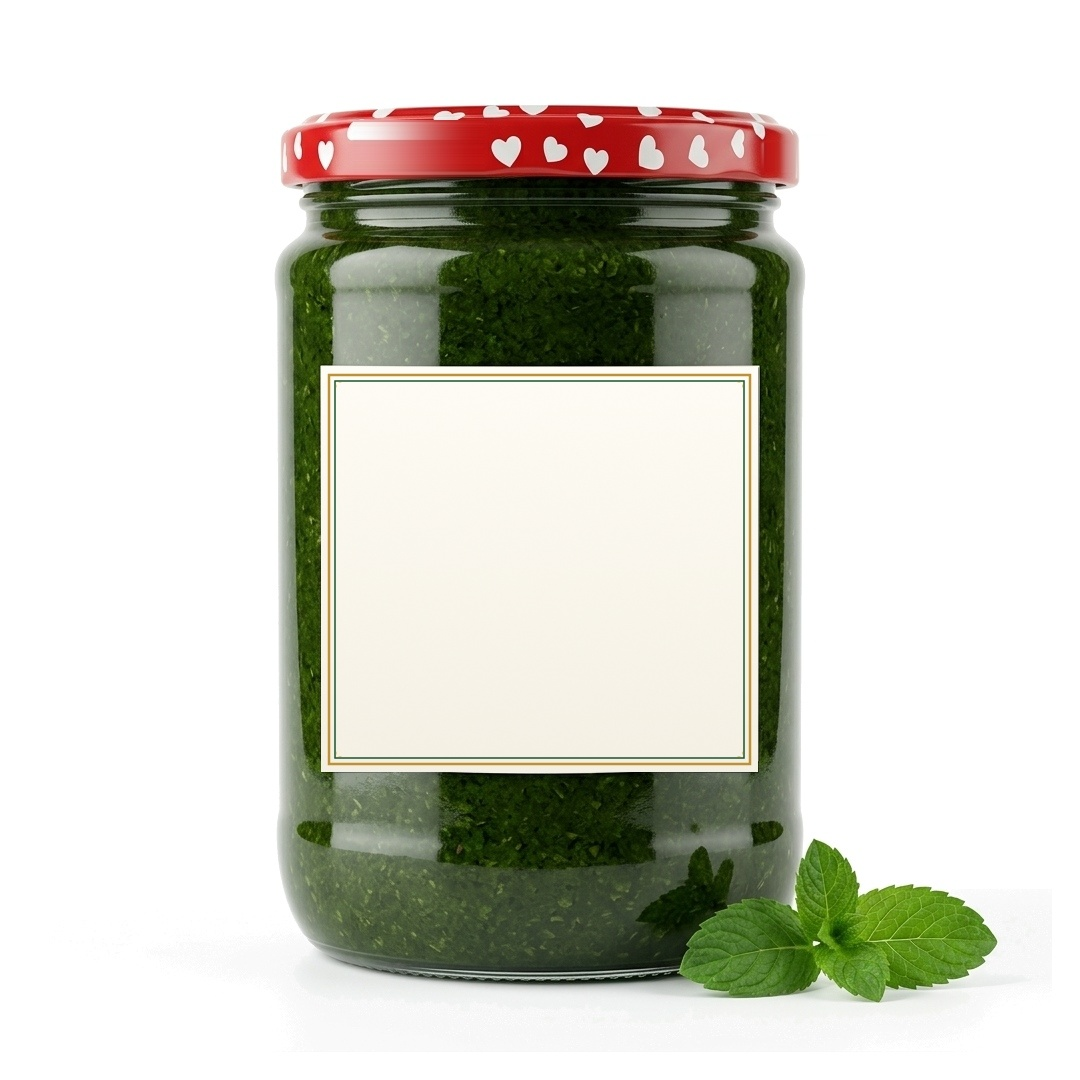
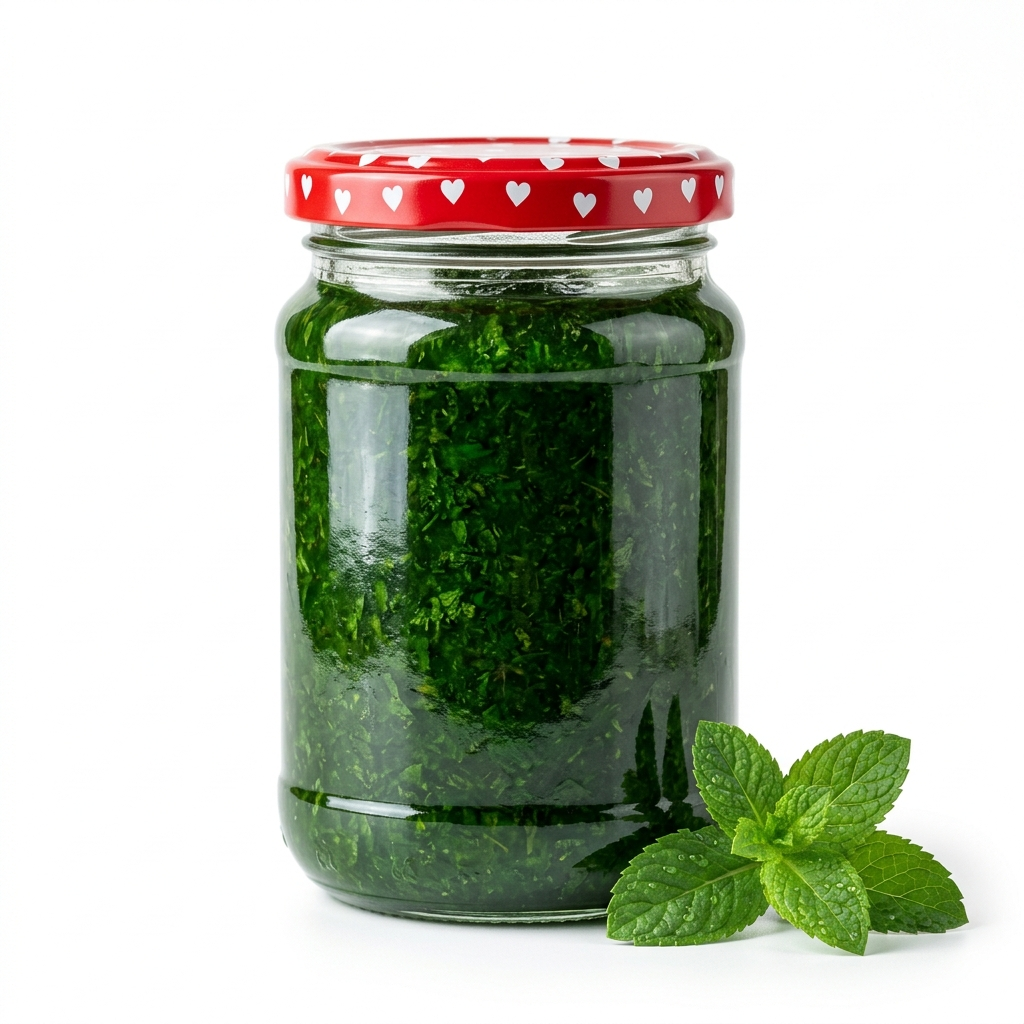
fix(catalog): replace blank box with seamless label-free studio mint jam for PRD-100 & PRD-325 and correct orthography to ئۇيغۇر تېبابىتى across all js/html

diff --git a/js/i18n.js b/js/i18n.js
@@ -74,9 +74,9 @@ const I18N_TRANSLATIONS = {
     heroDesc2: 'ساپ تەبىئىي يىپەك ۋە ھۆسن تۈزەش گۈزەللىك يۈرۈشلۈكلىرى زاكاز قىلىشىڭىزنى كۈتمەكتە.',
     heroBtn2: 'مەھسۇلاتلار تىزىملىكى',
 
-    heroTag3: 'ئۇيغۇر تىبابىتى',
+    heroTag3: 'ئۇيغۇر تېبابىتى',
     heroTitle3: 'خوتەن قاشتېشى ۋە شىپالىق ئۆسۈملۈكلەر خەزىنىسى',
-    heroDesc3: 'ساپ تاش قاشتېشى بىلەزۈكلىرى، تەبىئىي شىپالىق تاغ ھەسىلى ۋە ئەنئەنىۋى تىبابەت مەلھەملىرى تولۇق كاپالەتلىك.',
+    heroDesc3: 'ساپ تاش قاشتېشى بىلەزۈكلىرى، تەبىئىي شىپالىق تاغ ھەسىلى ۋە ئەنئەنىۋى تېبابەت مەلھەملىرى تولۇق كاپالەتلىك.',
     heroBtn3: 'شىپالىق ماللارنى كۆرۈش',
 
     heroTag4: 'ئالىي تەم ۋە ئىچىملىكلەر',
@@ -243,9 +243,9 @@ const I18N_TRANSLATIONS = {
     instaGiftHint: 'دەلىللەش ئۇچۇرى: پوسۇلكىڭىز چىقىرىلغاندا ھەدىيە ئاپتوماتىك قوشۇلىدۇ.',
     instaGiftItemName: '🎁 ئىنىستىگېرام ئەگەشكۈچى سوۋغىتى',
     instaGiftMarquee: '🎁 ئىنىستىگېرام سەھىپىمىزگە ئەگىشىپ زاكاز بەرسىڭىز ھەقسىز سوۋغات بېرىلىدۇ!',
-    btnUyghurMedicine: 'ئۇيغۇر تىبابىتى',
-    fLinkMerchants: 'ئۇيغۇر تىبابىتى',
-    fLinkFriendlyLinks: 'ئۇيغۇر تىبابىتى',
+    btnUyghurMedicine: 'ئۇيغۇر تېبابىتى',
+    fLinkMerchants: 'ئۇيغۇر تېبابىتى',
+    fLinkFriendlyLinks: 'ئۇيغۇر تېبابىتى',
     friendlyLinksModalTitle: 'دوستانە ئۇلىنىشلار',
     friendlyLinksModalSubtitle: 'تەكلىماكان تور سودا سۇپىسىنىڭ دوستلىرى ۋە ھەمكارلاشقان تور بېكەتلىرى',
     friendlyLinksNotice: 'بۇ سەھىپىگە ئۆزىڭىزنىڭ ياكى ھەمكارلاشقۇچىلارنىڭ تور بېكەت ئۇلىنىشلىرىنى ئاسانلا كىرگۈزۈپ ئىشلىتەلەيسىز.',
@@ -1173,8 +1173,8 @@ const BRAND_LOCALIZATIONS = {
     tr: 'Anargül Organik',
     en: 'Anargul Organic'
   },
-  'ئەلمۇئەللىم تىبابىتى': {
-    ug: 'ئەلمۇئەللىم تىبابىتى',
+  'ئەلمۇئەللىم تېبابىتى': {
+    ug: 'ئەلمۇئەللىم تېبابىتى',
     tr: 'El-Muallim Şifa',
     en: 'Al-Muallim Wellness'
   },
@@ -1304,14 +1304,14 @@ const PROMO_BADGE_LOCALIZATIONS = {
 
 // تۈرلەر ۋە تاۋار ناملىرى ئۈچۈن قوشۇمچە ئۆلچەملىك لۇغەت
 const CATEGORY_LOCALIZATIONS = {
-  'ئۇيغۇر تىبابىتى': { ug: 'ئۇيغۇر تىبابىتى', tr: 'Uygur Tıbbı', en: 'Uyghur Medicine' },
-  'Uygur Tıbbı': { ug: 'ئۇيغۇر تىبابىتى', tr: 'Uygur Tıbbı', en: 'Uyghur Medicine' },
-  'Uygur Tıbbı Mirası': { ug: 'ئۇيغۇر تىبابىتى', tr: 'Uygur Tıbbı', en: 'Uyghur Medicine' },
-  'ئۇيغۇر تىبابىتى مىراسى': { ug: 'ئۇيغۇر تىبابىتى', tr: 'Uygur Tıbbı', en: 'Uyghur Medicine' },
-  'ئۇيغۇر تېبابىتى مىراسى': { ug: 'ئۇيغۇر تىبابىتى', tr: 'Uygur Tıbbı', en: 'Uyghur Medicine' },
-  'ئۇيغۇر تېبابىتى': { ug: 'ئۇيغۇر تىبابىتى', tr: 'Uygur Tıbbı', en: 'Uyghur Medicine' },
-  'Geleneksel Şifa Ürünleri': { ug: 'ئۇيغۇر تىبابىتى', tr: 'Uygur Tıbbı', en: 'Uyghur Medicine' },
-  'ئەنئەنىۋى شىپالىق مەھسۇلاتلار': { ug: 'ئۇيغۇر تىبابىتى', tr: 'Uygur Tıbbı', en: 'Uyghur Medicine' },
+  'ئۇيغۇر تېبابىتى': { ug: 'ئۇيغۇر تېبابىتى', tr: 'Uygur Tıbbı', en: 'Uyghur Medicine' },
+  'Uygur Tıbbı': { ug: 'ئۇيغۇر تېبابىتى', tr: 'Uygur Tıbbı', en: 'Uyghur Medicine' },
+  'Uygur Tıbbı Mirası': { ug: 'ئۇيغۇر تېبابىتى', tr: 'Uygur Tıbbı', en: 'Uyghur Medicine' },
+  'ئۇيغۇر تېبابىتى مىراسى': { ug: 'ئۇيغۇر تېبابىتى', tr: 'Uygur Tıbbı', en: 'Uyghur Medicine' },
+  'ئۇيغۇر تېبابىتى مىراسى': { ug: 'ئۇيغۇر تېبابىتى', tr: 'Uygur Tıbbı', en: 'Uyghur Medicine' },
+  'ئۇيغۇر تېبابىتى': { ug: 'ئۇيغۇر تېبابىتى', tr: 'Uygur Tıbbı', en: 'Uyghur Medicine' },
+  'Geleneksel Şifa Ürünleri': { ug: 'ئۇيغۇر تېبابىتى', tr: 'Uygur Tıbbı', en: 'Uyghur Medicine' },
+  'ئەنئەنىۋى شىپالىق مەھسۇلاتلار': { ug: 'ئۇيغۇر تېبابىتى', tr: 'Uygur Tıbbı', en: 'Uyghur Medicine' },
   'تەبىئىي ۋە شىپالىق مايلار': { ug: 'تەبىئىي ياغلار', tr: 'Doğal & Şifalı Yağlar', en: 'Natural Oils' },
   'Doğal & Şifalı Yağlar': { ug: 'تەبىئىي ياغلار', tr: 'Doğal & Şifalı Yağlar', en: 'Natural Oils' },
   'Dogal & Sifali Yaglar': { ug: 'تەبىئىي ياغلار', tr: 'Doğal & Şifalı Yağlar', en: 'Natural Oils' },
@@ -1375,12 +1375,12 @@ const CATEGORY_LOCALIZATIONS = {
   'ئۆي بېزەكچىلىكى': { ug: 'ئۆي بېزەكچىلىكى', tr: 'Ev Dekorasyonu', en: 'Home Decor' },
   'كىتاب-مەدەنىيەت': { ug: 'كىتاب ۋە مەدەنىيەت', tr: 'Kitap & Kültür', en: 'Books & Culture' },
   'ئەنئەنىۋى بۇيۇملار': { ug: 'ئەنئەنىۋى بۇيۇملار', tr: 'Geleneksel Ürünler', en: 'Traditional Products' },
-  'ئەنئەنىۋى شىپالىق مەھسۇلاتلار': { ug: 'ئۇيغۇر تىبابىتى', tr: 'Geleneksel Şifa Ürünleri', en: 'Traditional Healing Products' },
-  'Geleneksel Şifa Ürünleri': { ug: 'ئۇيغۇر تىبابىتى', tr: 'Geleneksel Şifa Ürünleri', en: 'Traditional Healing Products' },
-  'Geleneksel Sifa Urunleri': { ug: 'ئۇيغۇر تىبابىتى', tr: 'Geleneksel Şifa Ürünleri', en: 'Traditional Healing Products' },
-  'Şifa Ürünleri': { ug: 'ئۇيغۇر تىبابىتى', tr: 'Şifa Ürünleri', en: 'Healing Products' },
-  'Uygur Tıbbı': { ug: 'ئۇيغۇر تىبابىتى', tr: 'Uygur Tıbbı', en: 'Uyghur Medicine' },
-  'Uygur Tibbi': { ug: 'ئۇيغۇر تىبابىتى', tr: 'Uygur Tıbbı', en: 'Uyghur Medicine' },
+  'ئەنئەنىۋى شىپالىق مەھسۇلاتلار': { ug: 'ئۇيغۇر تېبابىتى', tr: 'Geleneksel Şifa Ürünleri', en: 'Traditional Healing Products' },
+  'Geleneksel Şifa Ürünleri': { ug: 'ئۇيغۇر تېبابىتى', tr: 'Geleneksel Şifa Ürünleri', en: 'Traditional Healing Products' },
+  'Geleneksel Sifa Urunleri': { ug: 'ئۇيغۇر تېبابىتى', tr: 'Geleneksel Şifa Ürünleri', en: 'Traditional Healing Products' },
+  'Şifa Ürünleri': { ug: 'ئۇيغۇر تېبابىتى', tr: 'Şifa Ürünleri', en: 'Healing Products' },
+  'Uygur Tıbbı': { ug: 'ئۇيغۇر تېبابىتى', tr: 'Uygur Tıbbı', en: 'Uyghur Medicine' },
+  'Uygur Tibbi': { ug: 'ئۇيغۇر تېبابىتى', tr: 'Uygur Tıbbı', en: 'Uyghur Medicine' },
   'Hazır & İşlenmiş İlaçlar': { ug: 'پىششىق دورىلار', tr: 'Hazır & İşlenmiş İlaçlar', en: 'Prepared Medicines' },
   'Şifalı Bitkiler & Otlar': { ug: 'ئۆسۈملۈك دورىلار', tr: 'Şifalı Bitkiler & Otlar', en: 'Herbal Medicines' },
   'Güzellik & Sağlık': { ug: 'گۈزەللىك ۋە ساغلاملىق', tr: 'Güzellik & Sağlık', en: 'Beauty & Health' },
@@ -1390,8 +1390,8 @@ const CATEGORY_LOCALIZATIONS = {
   'Kuruyemişler': { ug: 'قۇرۇق يەل-يېمىشلەر', tr: 'Kuruyemişler', en: 'Dried Fruits & Nuts' },
   'Kuruyemisler': { ug: 'قۇرۇق يەل-يېمىشلەر', tr: 'Kuruyemişler', en: 'Dried Fruits & Nuts' },
   'Kuruyemiş': { ug: 'قۇرۇق يەل-يېمىشلەر', tr: 'Kuruyemiş', en: 'Dried Fruits & Nuts' },
-  'Uygur Tıbbı Mirası': { ug: 'ئۇيغۇر تىبابىتى', tr: 'Uygur Tıbbı Mirası', en: 'Uyghur Medicine Heritage' },
-  'Uygur Tibbi Mirasi': { ug: 'ئۇيغۇر تىبابىتى', tr: 'Uygur Tıbbı Mirası', en: 'Uyghur Medicine Heritage' },
+  'Uygur Tıbbı Mirası': { ug: 'ئۇيغۇر تېبابىتى', tr: 'Uygur Tıbbı Mirası', en: 'Uyghur Medicine Heritage' },
+  'Uygur Tibbi Mirasi': { ug: 'ئۇيغۇر تېبابىتى', tr: 'Uygur Tıbbı Mirası', en: 'Uyghur Medicine Heritage' },
   'Şifalı Bitkiler & Çaylar': { ug: 'ئۆسۈملۈك دورىلار', tr: 'Şifalı Bitkiler & Çaylar', en: 'Herbal Medicines & Teas' },
   'Sifali Bitkiler & Caylar': { ug: 'ئۆسۈملۈك دورىلار', tr: 'Şifalı Bitkiler & Çaylar', en: 'Herbal Medicines & Teas' },
   'Doğal Bakım & Güzellik': { ug: 'گۈزەللىك ۋە ساغلاملىق', tr: 'Doğal Bakım & Güzellik', en: 'Natural Care & Beauty' },
@@ -1412,7 +1412,7 @@ const CATEGORY_LOCALIZATIONS = {
 // ئۇيغۇرچە جۈملە ۋە سۆزلەرنى تۈركچە ۋە ئىنگلىزچىگە ئاپتوماتىك ئۆرىگۈچى لۇغەت ئامبىرى
 const UYGHUR_WORD_GLOSSARY = [
   // يېڭى داۋالاش ۋە دۇكان تۈرلىرى
-  { ug: 'ئۇيغۇر تىبابىتى', tr: 'Uygur Tıbbı', en: 'Uyghur Medicine' },
+  { ug: 'ئۇيغۇر تېبابىتى', tr: 'Uygur Tıbbı', en: 'Uyghur Medicine' },
   { ug: 'پىششىق دورىلار', tr: 'Hazır & İşlenmiş İlaçlar', en: 'Prepared Medicines' },
   { ug: 'ئۆسۈملۈك دورىلار', tr: 'Şifalı Bitkiler & Otlar', en: 'Herbal Medicines' },
   { ug: 'تەبىئىي ياغلار', tr: 'Doğal & Şifalı Yağlar', en: 'Natural Oils' },
@@ -1462,8 +1462,8 @@ const UYGHUR_WORD_GLOSSARY = [
   { ug: 'پىلە غوزىسى', tr: 'Doğal Saf İpek Kozası (Cilt Bakımı)', en: 'Natural Pure Silk Cocoons' },
   { ug: 'پىلە', tr: 'İpek', en: 'Silk' },
   { ug: 'غوزىسى', tr: 'Kozası', en: 'Cocoon' },
-  { ug: 'ئۇيغۇر تىبابەت قامۇسى', tr: 'Uygur Geleneksel Tıbbı Ansiklopedisi', en: 'Uyghur Traditional Medicine Encyclopedia' },
-  { ug: 'تىبابەت قامۇسى', tr: 'Tıp Ansiklopedisi', en: 'Medical Encyclopedia' },
+  { ug: 'ئۇيغۇر تېبابەت قامۇسى', tr: 'Uygur Geleneksel Tıbbı Ansiklopedisi', en: 'Uyghur Traditional Medicine Encyclopedia' },
+  { ug: 'تېبابەت قامۇسى', tr: 'Tıp Ansiklopedisi', en: 'Medical Encyclopedia' },
   { ug: 'تىبابەت', tr: 'Tıbbı', en: 'Medicine' },
   { ug: 'كىچىك چىلان', tr: 'Doğal Küçük Boy Hünnap', en: 'Natural Small Jujube Dates' },
   { ug: 'كىچىك', tr: 'Küçük', en: 'Small' },
@@ -1604,7 +1604,7 @@ const UYGHUR_WORD_GLOSSARY = [
   { ug: 'يېڭى كەلگەن', tr: 'Yeni Gelen', en: 'New Arrival' },
   // 🏢 ماركىلار
   { ug: 'ئانارگۈل ئورگانىك', tr: 'Anargül Organik', en: 'Anargul Organic' },
-  { ug: 'ئەلمۇئەللىم تىبابىتى', tr: 'El-Muallim Şifa', en: 'Al-Muallim Wellness' },
+  { ug: 'ئەلمۇئەللىم تېبابىتى', tr: 'El-Muallim Şifa', en: 'Al-Muallim Wellness' },
   { ug: 'تەكلىماكان نەشرىياتى', tr: 'Teklimakan Yayınları', en: 'Teklimakan Publishing' },
   { ug: 'شىنجاڭ تەبىئىتى', tr: 'Doğal Yöresel', en: 'Natural Heritage' },
   { ug: 'قەشقەر كۆركى', tr: 'Kaşgar Zarafet', en: 'Kashgar Elegance' },
@@ -2428,7 +2428,7 @@ class I18nManager {
 
     // 🌐 15. ئاستى قىسىم (Footer)
     setText('footerBrandDesc', this.t('footerBrandDesc'));
-    setText('footerMedicineSpan', this.t('btnUyghurMedicine') || (lang === 'tr' ? 'Uygur Tıbbı' : (lang === 'en' ? 'Uyghur Medicine' : 'ئۇيغۇر تىبابىتى')));
+    setText('footerMedicineSpan', this.t('btnUyghurMedicine') || (lang === 'tr' ? 'Uygur Tıbbı' : (lang === 'en' ? 'Uyghur Medicine' : 'ئۇيغۇر تېبابىتى')));
     setText('fCol2TitleText', this.t('footerCol2') || (lang === 'tr' ? 'Platform Hakkında' : (lang === 'en' ? 'About Platform' : 'سۇپا ھەققىدە')));
     setText('fLinkAboutSpan', this.t('fLinkAbout') || (lang === 'tr' ? 'Hakkımızda' : (lang === 'en' ? 'About Us' : 'بىز ھەققىدە')));
     setText('fLinkAboutSub', this.t('fLinkAboutSub') || (lang === 'tr' ? 'Platform hakkında ve kurumsal bilgiler' : (lang === 'en' ? 'Platform introduction & info' : 'سۇپا تونۇشتۇرۇشى ۋە ئۇچۇرلىرى')));

diff --git a/index.html b/index.html
@@ -297,7 +297,7 @@
       <div class="search-bar-container">
         <select id="searchCategorySelect" class="search-category-select">
           <option value="all">بارلىق تۈرلەر</option>
-          <option value="ئۇيغۇر تىبابىتى">ئۇيغۇر تىبابىتى</option>
+          <option value="ئۇيغۇر تېبابىتى">ئۇيغۇر تېبابىتى</option>
           <option value="پىششىق دورىلار">پىششىق دورىلار</option>
           <option value="ئۆسۈملۈك دورىلار">ئۆسۈملۈك دورىلار</option>
           <option value="تەبىئىي ياغلار">تەبىئىي ياغلار</option>
@@ -368,13 +368,13 @@
           </div>
         </div>
 
-        <!-- Slide 3: ئۇيغۇر تىبابىتى ۋە شىپالىق ئۆسۈملۈكلەر -->
+        <!-- Slide 3: ئۇيغۇر تېبابىتى ۋە شىپالىق ئۆسۈملۈكلەر -->
         <div class="hero-slide" style="background-image: url('images/hero_uyghur_medicine.jpg');">
           <div class="hero-slide-overlay"></div>
           <div class="hero-content">
-            <span class="hero-tag" id="heroTag3" style="background: #d97706;">ئۇيغۇر تىبابىتى</span>
+            <span class="hero-tag" id="heroTag3" style="background: #d97706;">ئۇيغۇر تېبابىتى</span>
             <h1 class="hero-title" id="heroTitle3">خوتەن قاشتېشى ۋە شىپالىق ئۆسۈملۈكلەر خەزىنىسى</h1>
-            <p class="hero-subtitle" id="heroDesc3">ساپ تاش قاشتېشى بىلەزۈكلىرى، تەبىئىي شىپالىق تاغ ھەسىلى ۋە ئەنئەنىۋى تىبابەت مەلھەملىرى تولۇق كاپالەتلىك.</p>
+            <p class="hero-subtitle" id="heroDesc3">ساپ تاش قاشتېشى بىلەزۈكلىرى، تەبىئىي شىپالىق تاغ ھەسىلى ۋە ئەنئەنىۋى تېبابەت مەلھەملىرى تولۇق كاپالەتلىك.</p>
             <a href="#catalogSection" class="hero-btn" id="heroBtn3" style="background: #d97706;">
               <span>شىپالىق ماللارنى كۆرۈش</span>
               <i class="fas fa-arrow-left"></i>
@@ -468,7 +468,7 @@
       </div>
       <div class="category-pills-wrap" id="categoryPillsContainer">
         <button class="category-pill active"><i class="fas fa-th-large"></i> <span>بارلىق مەھسۇلاتلار</span></button>
-        <button class="category-pill"><i class="fas fa-mortar-pestle"></i> <span>ئۇيغۇر تىبابىتى</span></button>
+        <button class="category-pill"><i class="fas fa-mortar-pestle"></i> <span>ئۇيغۇر تېبابىتى</span></button>
         <button class="category-pill"><i class="fas fa-pills"></i> <span>پىششىق دورىلار</span></button>
         <button class="category-pill"><i class="fas fa-leaf"></i> <span>ئۆسۈملۈك دورىلار</span></button>
         <button class="category-pill"><i class="fas fa-tint"></i> <span>تەبىئىي ياغلار</span></button>
@@ -1094,7 +1094,7 @@
         <!-- ==================== 1-قۇلاق: يېڭى ۋاكالەتچى تىزىملىتىش ==================== -->
         <div id="agentApplyPane">
           <div style="background: #eff6ff; border: 1px solid #bfdbfe; padding: 0.85rem; border-radius: 10px; margin-bottom: 1.25rem; font-size: 0.85rem; color: #1e40af; line-height: 1.6;">
-            <i class="fas fa-info-circle"></i> <strong>سۇپىمىزغا مەرھابا!</strong> ئەگەر ئۇيغۇر تىبابىتى، تەبىئىي دورا، گۈلقەنت، قۇرۇق يەل-يېمىش ياكى باشقا ئەلا سۈپەتلىك مىللىي مەھسۇلاتلارنى تور دۇكىنىمىزدا ساتماقچى بولسىڭىز، تۆۋەندىكى ئىلتىماسنى تولدۇرۇڭ. سۇپا باشقۇرغۇچىسى تەكشۈرۈپ تەستىقلىغاندىن كېيىن ماركا سېتىش ھوقۇقى بېرىلىدۇ.
+            <i class="fas fa-info-circle"></i> <strong>سۇپىمىزغا مەرھابا!</strong> ئەگەر ئۇيغۇر تېبابىتى، تەبىئىي دورا، گۈلقەنت، قۇرۇق يەل-يېمىش ياكى باشقا ئەلا سۈپەتلىك مىللىي مەھسۇلاتلارنى تور دۇكىنىمىزدا ساتماقچى بولسىڭىز، تۆۋەندىكى ئىلتىماسنى تولدۇرۇڭ. سۇپا باشقۇرغۇچىسى تەكشۈرۈپ تەستىقلىغاندىن كېيىن ماركا سېتىش ھوقۇقى بېرىلىدۇ.
             <div style="margin-top: 0.6rem; padding: 0.5rem 0.75rem; background: #fff1f2; border: 1px solid #fecdd3; border-radius: 6px; color: #9f1239; font-weight: 700; font-size: 0.82rem; line-height: 1.5;">
               ⚖ <strong>مەسئۇلىيەت بەلگىلىمىسى:</strong> تور سۇپىمىزنىڭ ئەمەس بەلكى ئۆزىنىڭ مەھسۇلاتىنى سېتىۋاتقان ۋاكالەتچىلەر ئۆزىنىڭ مەھسۇلاتىدىن كېلىپ چىققان ھەرقانداق ئاقىۋەتكە ئۆزى مەسئۇل، سۇپىمىز ئۆز ئۈستىگە ئالمايدۇ.
             </div>
@@ -1163,7 +1163,7 @@
 
             <div class="form-group" style="margin-bottom: 1rem;">
               <label class="form-label" style="font-weight: 700; font-size: 0.88rem; display: block; margin-bottom: 0.35rem;">سېتىشنى ئويلىغان تاۋار ياكى ماركا تۈرى</label>
-              <input type="text" id="applyAgentCategory" class="form-control" placeholder="مەسىلەن: ئۇيغۇر تىبابىتى، پىششىق دورىلار، قۇرۇق يەل-يېمىش...">
+              <input type="text" id="applyAgentCategory" class="form-control" placeholder="مەسىلەن: ئۇيغۇر تېبابىتى، پىششىق دورىلار، قۇرۇق يەل-يېمىش...">
             </div>
 
             <div class="form-group" style="margin-bottom: 1.25rem;">
@@ -2123,7 +2123,7 @@
             <i class="fas fa-info-circle" style="color: var(--primary-color);"></i> بىز ھەققىدە
           </h5>
           <p style="margin: 0; color: #1e293b; line-height: 1.8; font-size: 0.95rem;">
-            تەكلىماكان سودا تورى — ئەلا سۈپەتلىك ئۇيغۇر تىبابىتى شىپالىق دورىلىرى، گۈلقەنتلەر، تەبىئىي ساغلاملىق مەھسۇلاتلىرى، شىپالىق مايلار ۋە مىللىي مەدەنىيەت بايلىقلىرىنى دۇنيانىڭ ھەر قايسى جايلىرىدىكى خېرىدارلارغا ئەڭ قولايلىق، ئەرزان باھادا يەتكۈزۈپ بېرىدىغان زامانىۋىي تور سودا سۇپىسىدۇر.
+            تەكلىماكان سودا تورى — ئەلا سۈپەتلىك ئۇيغۇر تېبابىتى شىپالىق دورىلىرى، گۈلقەنتلەر، تەبىئىي ساغلاملىق مەھسۇلاتلىرى، شىپالىق مايلار ۋە مىللىي مەدەنىيەت بايلىقلىرىنى دۇنيانىڭ ھەر قايسى جايلىرىدىكى خېرىدارلارغا ئەڭ قولايلىق، ئەرزان باھادا يەتكۈزۈپ بېرىدىغان زامانىۋىي تور سودا سۇپىسىدۇر.
           </p>
         </div>
 
@@ -2400,15 +2400,15 @@
           </div>
           <p id="footerBrandDesc" class="footer-brand-desc">تەكلىماكان تور سودا سۇپىسى سىزگە ئۆلچەملىك ئۇيغۇرچە يېزىق، ئەڭ يۇقىرى سۈپەتلىك تاللانغان تاۋارلار، ئەرزان باھا ۋە كۆپ تىللىق زامانىۋىي تور سودا سۇپىسى بىلەن تەمىنلەيدۇ.</p>
           
-          <!-- ئىجتىمائىي تاراتقۇ ۋە ئۇيغۇر تىبابىتى ئۇلانمىسى -->
+          <!-- ئىجتىمائىي تاراتقۇ ۋە ئۇيغۇر تېبابىتى ئۇلانمىسى -->
           <div class="footer-brand-actions">
             <a href="https://www.instagram.com/teklimakancom" id="footerBrandInstaLink" target="_blank" class="social-link-pill social-pill-instagram" title="Instagram بېتىمىز">
               <i class="fab fa-instagram"></i>
               <span id="footerBrandInstaText">@teklimakancom</span>
             </a>
-            <a href="https://www.uyghurmedicine.com" id="btnUyghurMedicineFooter" target="_blank" rel="noopener noreferrer" onclick="window.open((window.appI18n && (window.appI18n.getLang()==='tr' || window.appI18n.getLang()==='en')) ? 'https://www.uyghurmedicine.com/tr' : 'https://www.uyghurmedicine.com', '_blank'); return false;" class="social-link-pill social-pill-medicine" title="ئۇيغۇر تىبابىتى">
+            <a href="https://www.uyghurmedicine.com" id="btnUyghurMedicineFooter" target="_blank" rel="noopener noreferrer" onclick="window.open((window.appI18n && (window.appI18n.getLang()==='tr' || window.appI18n.getLang()==='en')) ? 'https://www.uyghurmedicine.com/tr' : 'https://www.uyghurmedicine.com', '_blank'); return false;" class="social-link-pill social-pill-medicine" title="ئۇيغۇر تېبابىتى">
               <i class="fas fa-leaf"></i>
-              <span id="footerMedicineSpan">ئۇيغۇر تىبابىتى</span>
+              <span id="footerMedicineSpan">ئۇيغۇر تېبابىتى</span>
             </a>
           </div>
         </div>

diff --git a/js/store.js b/js/store.js
@@ -620,7 +620,7 @@ const INITIAL_PRODUCTS = [
     "brand": "تەكلىماكان",
     "languageScope": "all",
     "name": "ساپ تەبىئىي پىلە غوزىسى (30 دانە)",
-    "category": "ئۇيغۇر تىبابىتى",
+    "category": "ئۇيغۇر تېبابىتى",
     "price": 190,
     "oldPrice": 238,
     "stock": 40,
@@ -635,7 +635,7 @@ const INITIAL_PRODUCTS = [
     "translations": {
       "ug": {
         "name": "ساپ تەبىئىي پىلە غوزىسى (30 دانە)",
-        "category": "ئۇيغۇر تىبابىتى",
+        "category": "ئۇيغۇر تېبابىتى",
         "description": "تەبىئىي يىپەك پىلە غوزىسى، تېرىنى چوڭقۇر تازىلاش، ئاقارتىش ۋە كوللاگېننى ئاشۇرۇش ئۈچۈن قەدىمىي تەبىئىي چارە.",
         "unit": "30 دانە قۇتا",
         "badge": "تەبىئىي گۈزەللىك"
@@ -825,7 +825,7 @@ const INITIAL_PRODUCTS = [
     "brand": "تەكلىماكان شىپا",
     "languageScope": "all",
     "name": "زېھىن مەجۇنى (100g)",
-    "category": "ئۇيغۇر تىبابىتى",
+    "category": "ئۇيغۇر تېبابىتى",
     "price": 190,
     "oldPrice": 238,
     "stock": 50,
@@ -840,7 +840,7 @@ const INITIAL_PRODUCTS = [
     "translations": {
       "ug": {
         "name": "زېھىن مەجۇنى (100g)",
-        "category": "ئۇيغۇر تىبابىتى",
+        "category": "ئۇيغۇر تېبابىتى",
         "description": "ئەنئەنىۋى يىپەك يولى تېبابەت رېتسىپى بويىچە مېڭە ھۈجەيرىلىرىنى قۇۋۋەتلەش، زېھىننى ئېچىش، ئەستە تۇتۇش قابىلىيىتىنى كۈچەيتىش ۋە تەپەككۇرنى جانلاندۇرۇش ئۈچۈن تەييارلانغان ساپ تەبىئىي مەجۇن (100g).",
         "unit": "100g قاچا",
         "badge": "ئالاھىدە رېتسىپ"
@@ -866,7 +866,7 @@ const INITIAL_PRODUCTS = [
     "brand": "تەكلىماكان شىپا",
     "languageScope": "all",
     "name": "قۇۋۋەت مەجۇنى (100g)",
-    "category": "ئۇيغۇر تىبابىتى",
+    "category": "ئۇيغۇر تېبابىتى",
     "price": 500,
     "oldPrice": 625,
     "stock": 45,
@@ -881,7 +881,7 @@ const INITIAL_PRODUCTS = [
     "translations": {
       "ug": {
         "name": "قۇۋۋەت مەجۇنى (100g)",
-        "category": "ئۇيغۇر تىبابىتى",
+        "category": "ئۇيغۇر تېبابىتى",
         "description": "ئەنئەنىۋى كىلاسسىك رېتسىپ بويىچە ساپ تاغ ھەسىلى ۋە ئالىي قۇۋۋەت ئۇرۇقلىرى بىلەن تەييارلانغان، بەل-بۆرەك قۇۋۋىتى ۋە جىسمانىي ھاياتى كۈچنى ئاشۇرغۇچى تەبىئىي قۇۋۋەت مەجۇنى (100g).",
         "unit": "100g قاچا",
         "badge": "ئالاھىدە رېتسىپ"
@@ -1480,7 +1480,7 @@ const INITIAL_PRODUCTS = [
 
 const INITIAL_CATEGORIES = [
   { id: 'all', name: 'بارلىق تۈرلەر', order: 0, icon: 'fas fa-th-large', translations: { ug: 'بارلىق تۈرلەر', tr: 'Tüm Kategoriler', en: 'All Categories' } },
-  { id: 'ئۇيغۇر تىبابىتى', name: 'ئۇيغۇر تىبابىتى', order: 1, icon: 'fas fa-mortar-pestle', translations: { ug: 'ئۇيغۇر تىبابىتى', tr: 'Uygur Tıbbı', en: 'Uyghur Medicine' } },
+  { id: 'ئۇيغۇر تېبابىتى', name: 'ئۇيغۇر تېبابىتى', order: 1, icon: 'fas fa-mortar-pestle', translations: { ug: 'ئۇيغۇر تېبابىتى', tr: 'Uygur Tıbbı', en: 'Uyghur Medicine' } },
   { id: 'پىششىق دورىلار', name: 'پىششىق دورىلار', order: 2, icon: 'fas fa-pills', translations: { ug: 'پىششىق دورىلار', tr: 'Hazır & İşlenmiş İlaçlar', en: 'Prepared Medicines' } },
   { id: 'ئۆسۈملۈك دورىلار', name: 'ئۆسۈملۈك دورىلار', order: 3, icon: 'fas fa-leaf', translations: { ug: 'ئۆسۈملۈك دورىلار', tr: 'Şifalı Bitkiler & Otlar', en: 'Herbal Medicines' } },
   { id: 'تەبىئىي ياغلار', name: 'تەبىئىي ياغلار', order: 4, icon: 'fas fa-tint', translations: { ug: 'تەبىئىي ياغلار', tr: 'Doğal & Şifalı Yağlar', en: 'Natural Oils' } },
@@ -1617,10 +1617,10 @@ const DEFAULT_HERO_SLIDES = [
   {
     id: 'hero_3',
     order: 3,
-    tag: 'ئۇيغۇر تىبابىتى',
+    tag: 'ئۇيغۇر تېبابىتى',
     tagColor: '#d97706',
     title: 'خوتەن قاشتېشى ۋە شىپالىق ئۆسۈملۈكلەر خەزىنىسى',
-    subtitle: 'ساپ تاش قاشتېشى بىلەزۈكلىرى، تەبىئىي شىپالىق تاغ ھەسىلى ۋە ئەنئەنىۋى تىبابەت مەلھەملىرى تولۇق كاپالەتلىك.',
+    subtitle: 'ساپ تاش قاشتېشى بىلەزۈكلىرى، تەبىئىي شىپالىق تاغ ھەسىلى ۋە ئەنئەنىۋى تېبابەت مەلھەملىرى تولۇق كاپالەتلىك.',
     btnText: 'شىپالىق ماللارنى كۆرۈش',
     btnLink: '#catalogSection',
     image: 'images/hero_uyghur_medicine.jpg',
@@ -1918,7 +1918,7 @@ class StoreManager {
         healed = true;
       }
       if (isCorrupted(p.category)) {
-        p.category = initMatch ? initMatch.category : 'ئۇيغۇر تىبابىتى';
+        p.category = initMatch ? initMatch.category : 'ئۇيغۇر تېبابىتى';
         healed = true;
       }
       if (!p.unit || isCorrupted(p.unit) || p.unit.trim().length === 0) {
@@ -2357,7 +2357,7 @@ class StoreManager {
             const safeBrand = isCorrupted(rp.brand) ? (localItem?.brand && !isCorrupted(localItem.brand) ? localItem.brand : initMatch?.brand || 'تەكلىماكان كىلاسسىك') : (rp.brand || 'تەكلىماكان كىلاسسىك');
             const safeCat = (ugTrans && ugTrans.category)
               ? ugTrans.category
-              : (initMatch?.category || (window.appI18n ? window.appI18n.getCategoryName(rp.category, 'ug') : 'ئۇيغۇر تىبابىتى'));
+              : (initMatch?.category || (window.appI18n ? window.appI18n.getCategoryName(rp.category, 'ug') : 'ئۇيغۇر تېبابىتى'));
             const rawUnit = (rp.translations?.unit && !isCorrupted(rp.translations.unit)) ? rp.translations.unit : (localItem?.unit || initMatch?.unit || 'دانە');
             const safeUnit = normalizeUnit(rawUnit);
             const safeDesc = (ugTrans && ugTrans.description)
@@ -6404,7 +6404,7 @@ class StoreManager {
         id: p.id,
         name: cleanName,
         brand: p.brand || 'تەكلىماكان كىلاسسىك',
-        category: p.category || 'ئۇيغۇر تىبابىتى',
+        category: p.category || 'ئۇيغۇر تېبابىتى',
         price: Number(p.price) || 100,
         oldPrice: p.oldPrice ? Number(p.oldPrice) : Math.round((Number(p.price) || 100) * 1.25),
         unit: p.unit || 'دانە',
@@ -6455,14 +6455,14 @@ class StoreManager {
       },
       {
         name: 'تەبىئىي شىپالىق پىننە گۈلقەنتى (ئاشقازان ۋە ھەزىمگە مەنپەئەتلىك)',
-        brand: 'تەكلىماكان تىبابىتى',
+        brand: 'تەكلىماكان تېبابىتى',
         category: 'گۈلقەنتلەر',
         price: 260,
         oldPrice: 320,
         unit: '1 كىلو',
         stock: 35,
         image: 'https://images.unsplash.com/photo-1589301760014-d929f3979dbc?auto=format&fit=crop&w=800&q=80',
-        description: 'ئەنئەنىۋى تىبابەت رېتسىپى بويىچە يېڭى پىننە ۋە تەبىئىي گۈل شىرنىسىدىن ياسالغان، ھەزىم ۋە سۈرۈشكە مەنپەئەتلىك گۈلقەنت.',
+        description: 'ئەنئەنىۋى تېبابەت رېتسىپى بويىچە يېڭى پىننە ۋە تەبىئىي گۈل شىرنىسىدىن ياسالغان، ھەزىم ۋە سۈرۈشكە مەنپەئەتلىك گۈلقەنت.',
         keywords: 'گۈلقەنت پىننە gulqent nane gül reçeli gülqent'
       },
       {

diff --git a/js/app.js b/js/app.js
@@ -951,11 +951,11 @@ function initTeklimakanApp() {
 
     // ئۈستۈنكى ئايلانما ئېلان (Marquee) پۈتۈنلەي renderMarqueeTicker ئارقىلىق يېڭىلىنىدۇ
 
-    // 🌿 ئۇيغۇر تىبابىتى كۇنۇپكىسى تېكىستى ۋە نىشان تور ئادرېسى
+    // 🌿 ئۇيغۇر تېبابىتى كۇنۇپكىسى تېكىستى ۋە نىشان تور ئادرېسى
     const medLink = document.getElementById('btnUyghurMedicineFooter');
     const medSpan = document.getElementById('footerMedicineSpan') || document.getElementById('footerFriendlyLinksSpan') || document.getElementById('footerMerchantSpan');
     const medUrl = (lang === 'tr' || lang === 'en') ? 'https://www.uyghurmedicine.com/tr' : 'https://www.uyghurmedicine.com';
-    const medTitle = lang === 'tr' ? 'Uygur Tıbbı' : (lang === 'en' ? 'Uyghur Medicine' : 'ئۇيغۇر تىبابىتى');
+    const medTitle = lang === 'tr' ? 'Uygur Tıbbı' : (lang === 'en' ? 'Uyghur Medicine' : 'ئۇيغۇر تېبابىتى');
     if (medLink) {
       medLink.href = medUrl;
       medLink.title = medTitle;
@@ -5633,7 +5633,7 @@ function initTeklimakanApp() {
       });
     }
 
-    // 🌿 ئۇيغۇر تىبابىتى ئۇلىنىشى — نۆۋەتتىكى تىلغا ئاساسەن تور بەتكە كىرىش
+    // 🌿 ئۇيغۇر تېبابىتى ئۇلىنىشى — نۆۋەتتىكى تىلغا ئاساسەن تور بەتكە كىرىش
     const btnMedFooter = document.getElementById('btnUyghurMedicineFooter');
     if (btnMedFooter) {
       btnMedFooter.addEventListener('click', (e) => {
@@ -10400,7 +10400,7 @@ ${text}
           copy: 'كۆچۈرۈش',
           copied: 'كۆچۈرۈلدى!',
           saved: 'ساقلاندى!',
-          b1: 'كاپالەتلىك ئەسلى شىپالىق ئۇيغۇر تىبابەت مەھسۇلاتلىرى',
+          b1: 'كاپالەتلىك ئەسلى شىپالىق ئۇيغۇر تېبابەت مەھسۇلاتلىرى',
           b2: 'تېز سۈرئەتتە ئىشىك ئالدىغىچە بىخەتەر يەتكۈزۈش',
           b3: 'رازى بولمىسىڭىز مالنى قايتۇرۇپ ئالماشتۇرۇش كاپالىتى',
           stay: 'مال سېتىۋېلىشنى داۋاملاشتۇرۇش',

diff --git a/seidiye.html b/seidiye.html
@@ -790,7 +790,7 @@
                   </div>
                   <!-- تېز تاللاش پالىتراسى -->
                   <div class="category-icon-palette" data-target="newCategoryIcon" style="display: flex; flex-wrap: wrap; gap: 0.35rem; background: #f8fafc; border: 1px solid #e2e8f0; border-radius: 8px; padding: 0.45rem;">
-                    <span class="icon-pick-btn" data-icon="fas fa-mortar-pestle" title="ئۇيغۇر تىبابىتى"><i class="fas fa-mortar-pestle"></i></span>
+                    <span class="icon-pick-btn" data-icon="fas fa-mortar-pestle" title="ئۇيغۇر تېبابىتى"><i class="fas fa-mortar-pestle"></i></span>
                     <span class="icon-pick-btn" data-icon="fas fa-pills" title="پىششىق دورا"><i class="fas fa-pills"></i></span>
                     <span class="icon-pick-btn" data-icon="fas fa-leaf" title="ئۆسۈملۈك دورا"><i class="fas fa-leaf"></i></span>
                     <span class="icon-pick-btn" data-icon="fas fa-tint" title="تەبىئىي ياغ"><i class="fas fa-tint"></i></span>
@@ -3915,7 +3915,7 @@
           </div>
           <!-- تېز سىنبەلگە پالىتراسى -->
           <div class="category-icon-palette" data-target="editCategoryIcon" style="display: flex; flex-wrap: wrap; gap: 0.35rem; background: #f8fafc; border: 1px solid #e2e8f0; border-radius: 8px; padding: 0.5rem;">
-            <span class="icon-pick-btn" data-icon="fas fa-mortar-pestle" title="ئۇيغۇر تىبابىتى"><i class="fas fa-mortar-pestle"></i></span>
+            <span class="icon-pick-btn" data-icon="fas fa-mortar-pestle" title="ئۇيغۇر تېبابىتى"><i class="fas fa-mortar-pestle"></i></span>
             <span class="icon-pick-btn" data-icon="fas fa-pills" title="پىششىق دورا"><i class="fas fa-pills"></i></span>
             <span class="icon-pick-btn" data-icon="fas fa-leaf" title="ئۆسۈملۈك دورا"><i class="fas fa-leaf"></i></span>
             <span class="icon-pick-btn" data-icon="fas fa-tint" title="تەبىئىي ياغ"><i class="fas fa-tint"></i></span>

diff --git a/js/admin.js b/js/admin.js
@@ -10612,7 +10612,7 @@ document.addEventListener('DOMContentLoaded', () => {
   const PRESET_HERO_IMAGES = [
     { label: 'تەبىئىي تاۋارلار ۋە قۇرۇق مېۋىلەر (ئۈزۈم، ياڭاق)', value: 'images/hero_dried_fruits.jpg' },
     { label: 'ئەنئەنىۋى يىپەك ئەتلەس ۋە گۈزەللىك بۇيۇملىرى', value: 'images/hero_atlas_silk.jpg' },
-    { label: 'ئۇيغۇر تىبابىتى ۋە شىپالىق ئۆسۈملۈكلەر (ھەسەل، قاشتېشى)', value: 'images/hero_uyghur_medicine.jpg' },
+    { label: 'ئۇيغۇر تېبابىتى ۋە شىپالىق ئۆسۈملۈكلەر (ھەسەل، قاشتېشى)', value: 'images/hero_uyghur_medicine.jpg' },
     { label: 'تۈركىيە رىزە قارا چېيى ۋە قەدىمىي مىس چەينەك', value: 'images/hero_turkish_tea.jpg' },
     { label: 'يىپەك يولى مەدەنىيىتى ۋە كىلاسسىك كىتابلار', value: 'images/hero_books_culture.jpg' }
   ];
